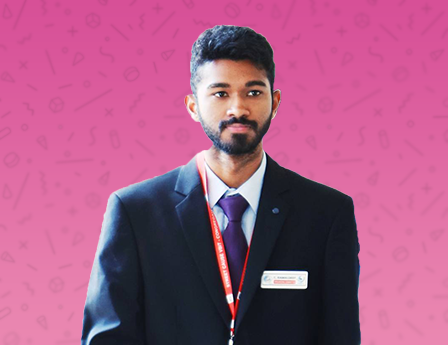
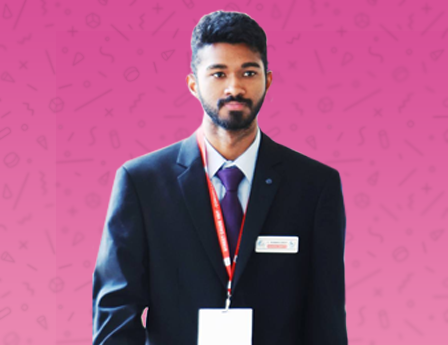
images

Changed region(s): [[0.1562, 0.029, 0.8125, 1.0], [0.3125, 0.9855, 0.3438, 1.0]]

diff --git a/Team.html b/Team.html
@@ -200,7 +200,7 @@
           </div>
           <div class="column">
               <div class="card">
-                  <img src="images/Team/unknownM.png" alt="logo" style="width:100%">
+                  <img src="images/Team/Manish sr.png" alt="logo" style="width:100%">
                   <div class="container">
                       <h2 style="text-align: center;">Tirunahari Manish</h2>
                       <p style="text-align: center;" class="title">MARKETING LEAD</p>
@@ -292,7 +292,7 @@
               <div class="card">
                   <img src="images/Team/MAHESHWARAM RISHIKA.png" alt="logo" style="width:100%">
                   <div class="container">
-                      <h2 style="text-align: center;">Rishika</h2>
+                      <h2 style="text-align: center;">Maheshwaram Rishika</h2>
                   </div>
               </div>
           </div>
@@ -338,7 +338,7 @@
       </div>
       <div class="column">
       <div class="card">
-      <img src="images/Team/unknownM.png" alt="logo" style="width:100%">
+      <img src="images/Team/Vishwanath.png" alt="logo" style="width:100%">
       <div class="container">
           <h2 style="text-align: center;">Viswanatha Sharma</h2>
        </div>
@@ -362,7 +362,7 @@
       </div>
       <div class="column">
       <div class="card">
-      <img src="images/Team/unknownM.png" alt="logo" style="width:100%">
+      <img src="images/Team/leo.png" alt="logo" style="width:100%">
        <div class="container">
       <h2 style="text-align: center;">Leo Jesvyn Francis</h2>
        </div>
@@ -396,7 +396,7 @@
       <div class="row">
           <div class="column">
               <div class="card">
-                <img src="images/Team/unknownM.png" alt="logo" style="width:100%">
+                <img src="images/Team/nishanth.png" alt="logo" style="width:100%">
               <div class="container">
                 <h2 style="text-align: center;">P. Nishanth reddy</h2>
               </div>
@@ -412,7 +412,7 @@
         </div>
         <div class="column">
           <div class="card">
-              <img src="images/Team/unknownM.png" alt="logo" style="width:100%">
+              <img src="images/Team/Sai kumar Yadav.png" alt="logo" style="width:100%">
             <div class="container">
               <h2 style="text-align: center;">M.Sai kumar yadav</h2>
             </div>
@@ -420,7 +420,7 @@
         </div>
         <div class="column">
           <div class="card">
-              <img src="images/Team/unknownM.png" alt="logo" style="width:100%">
+              <img src="images/Team/U.Pavan kalyan.png" alt="logo" style="width:100%">
             <div class="container">
               <h2 style="text-align: center;">U.Pavan kalyan</h2>
             </div>
